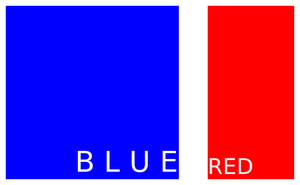
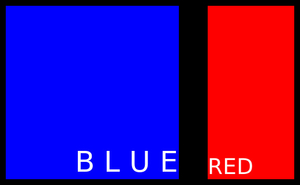
clearer example

Changed region(s): [[0.0, 0.0, 1.0, 1.0]]

diff --git a/README.md b/README.md
@@ -14,15 +14,17 @@ Remove `-DGEN_EXIF` and references to `pkg-config exiv2` if exif info is not req
 
 ## Example Usage
 ### Typical ###
-create a horizontal dipytch (`-s 1:1`) from the 2 images, creating an internal border (`-b`) of 50pxls and external boder (`-B`) of 10pxls using white (`-C white` which is default) as the border colour.
+create a horizontal dipytch (`-s 1:1`) from the 2 images, creating an internal border (`-b`) of 50pxls and external boder (`-B`) of 10pxls using black (`-C black` where white is default) as the border colour.
 
-![Alt text](blue.jpg?raw=true "BLUE")
-![Alt text](red.jpg?raw=true "RED")
+Inputs:
+- ![Alt text](blue.jpg?raw=true "BLUE 300x300") 300x300
+- ![Alt text](red.jpg?raw=true "RED 200x400") 200x400
 
 ```
-diptych -O 300 -B 10 -b 50 -C white -s 1:1  blue.jpg red.jpg -o final.jpg
+diptych -O 300 -B 10 -b 50 -C black -s 1:1  blue.jpg red.jpg -o final.jpg
 ```
-![Alt text](final.jpg?raw=true "RED")
+Resulting in an 300x185 image that is scaled to the requested output (note the size of text on 'red')
+![Alt text](final.jpg?raw=true "final.jpg")
 
 To create a vertical dipytch using the same files above, use `-s 2`
 
